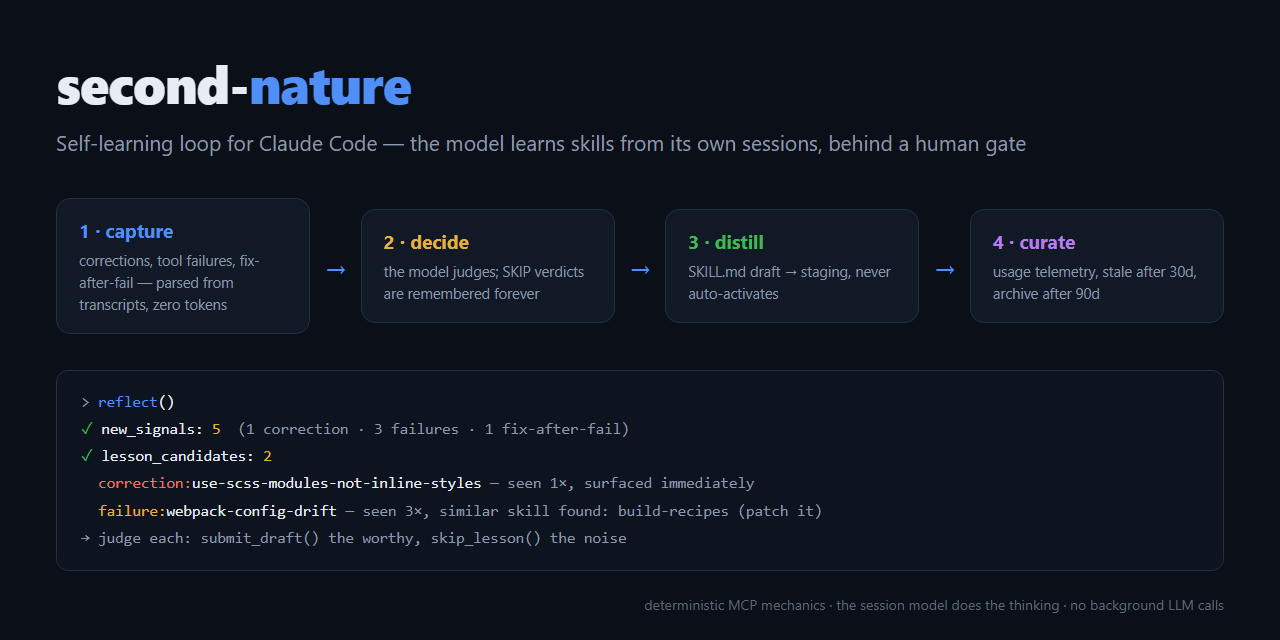
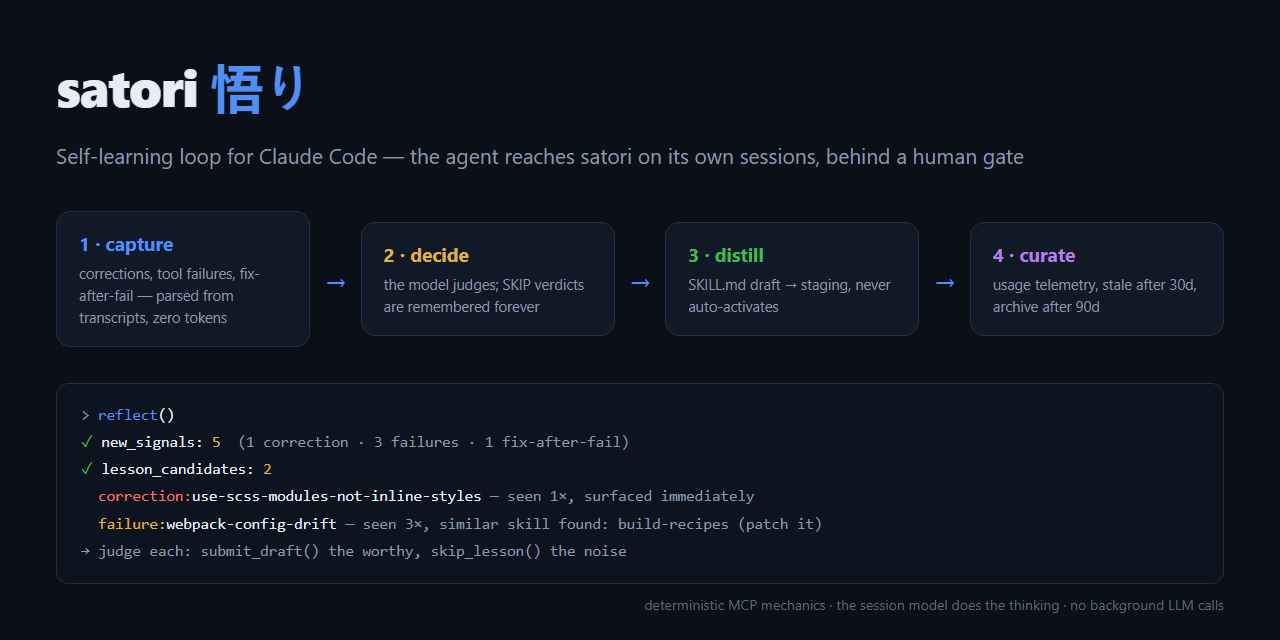
Rename: second-nature -> satori (悟り)

diff --git a/docs/hero.html b/docs/hero.html
@@ -18,8 +18,8 @@
   .p { color:#3fb950; } .k { color:#4f8ff7; } .c { color:#8b98a9; } .y { color:#e3b341; } .r { color:#f47067; }
   .foot { position:absolute; bottom:26px; right:56px; color:#5b6878; font-size:14px; }
 </style></head><body>
-  <div class="title">second-<span class="accent">nature</span></div>
-  <div class="tag">Self-learning loop for Claude Code — the model learns skills from its own sessions, behind a human gate</div>
+  <div class="title">satori <span class="accent">悟り</span></div>
+  <div class="tag">Self-learning loop for Claude Code — the agent reaches satori on its own sessions, behind a human gate</div>
   <div class="loop">
     <div class="stage s1"><b>1 · capture</b><span>corrections, tool failures, fix-after-fail — parsed from transcripts, zero tokens</span></div>
     <div class="arrow">→</div>

diff --git a/hooks/nudge.py b/hooks/nudge.py
@@ -1,5 +1,5 @@
 #!/usr/bin/env python3
-"""second-nature nudge hook. Events: prompt-submit | stop | session-end.
+"""satori nudge hook. Events: prompt-submit | stop | session-end.
 
 Молчит по умолчанию. Голос: коррекция юзера в текущем сообщении (мгновенно)
 или накопленная работа с последнего reflect (>=SN_NUDGE_MIN_CALLS tool calls).
@@ -15,7 +15,7 @@ import sys
 import time
 from pathlib import Path
 
-ROOT = Path.home() / ".claude" / "second-nature"
+ROOT = Path.home() / ".claude" / "satori"
 STATE_PATH = ROOT / "nudge_state.json"
 DB_PATH = ROOT / "state.db"
 
@@ -115,8 +115,8 @@ def main() -> None:
             emit({"hookSpecificOutput": {
                 "hookEventName": "UserPromptSubmit",
                 "additionalContext": (
-                    "second-nature: пользователь только что поправил тебя — после того как "
-                    "починишь по существу, вызови mcp__second-nature__reflect (коррекция = "
+                    "satori: пользователь только что поправил тебя — после того как "
+                    "починишь по существу, вызови mcp__satori__reflect (коррекция = "
                     "кандидат в урок с первого раза).")}})
             return
 
@@ -126,8 +126,8 @@ def main() -> None:
                 and now - st.get("nudge_ts", 0) > COOLDOWN_S)
     if not workload:
         return
-    msg = (f"second-nature: с последней рефлексии накопилось ~{calls} tool calls — "
-           f"вызови mcp__second-nature__reflect (или проигнорируй, напомню после "
+    msg = (f"satori: с последней рефлексии накопилось ~{calls} tool calls — "
+           f"вызови mcp__satori__reflect (или проигнорируй, напомню после "
            f"следующих {MIN_CALLS}).")
     st.update(nudge_ts=now, nudged_at_calls=calls)
     state_save(st)

diff --git a/server.py b/server.py
@@ -1,11 +1,11 @@
 #!/usr/bin/env python3
-"""second-nature — self-learning loop MCP for Claude Code (Windows-native).
+"""satori — self-learning loop MCP for Claude Code (Windows-native).
 
 4-stage loop: capture -> decide -> distill -> curate.
 The MCP does deterministic mechanics (parsing, counters, storage, validation);
 the calling model in-session does the thinking. No background `claude -p` calls.
 
-Storage: ~/.claude/second-nature/{state.db, staging/, backups/}
+Storage: ~/.claude/satori/{state.db, staging/, backups/}
 """
 
 import json
@@ -19,7 +19,7 @@ from pathlib import Path
 from fastmcp import FastMCP
 
 HOME = Path.home()
-ROOT = HOME / ".claude" / "second-nature"
+ROOT = HOME / ".claude" / "satori"
 STAGING = ROOT / "staging"
 BACKUPS = ROOT / "backups"
 DB_PATH = ROOT / "state.db"
@@ -63,7 +63,7 @@ INJECTION_RX = re.compile(
 KEY_STOP = re.compile(r"[^a-z0-9а-яё_./-]+", re.IGNORECASE)
 
 mcp = FastMCP(
-    "second-nature",
+    "satori",
     instructions=(
         "Self-learning loop (4 stages: capture->decide->distill->curate). "
         "CALL `reflect` SEVERAL TIMES PER SESSION: after finishing any substantial task "
@@ -321,7 +321,7 @@ def submit_draft(name: str, markdown: str, lesson_key: str = "", patches: str = 
         dest.parent.mkdir(parents=True, exist_ok=True)
         if dest.exists():
             shutil.copy2(dest, BACKUPS / f"{name}.{int(time.time())}.md")
-        stamp = (f"\n<!-- second-nature: staged {time.strftime('%Y-%m-%d')}"
+        stamp = (f"\n<!-- satori: staged {time.strftime('%Y-%m-%d')}"
                  + (f", patches '{patches}'" if patches else "")
                  + (f", lesson '{lesson_key}'" if lesson_key else "")
                  + (f", pinned '{pinned_project}'" if pinned_project else "") + " -->\n")

diff --git a/README.md b/README.md
@@ -1,20 +1,20 @@
 <div align="center">
 
-# second-nature
+# satori
 
 **A self-learning loop for Claude Code — the model learns skills from its own sessions, behind a human gate.**
 
-[![License](https://img.shields.io/github/license/timoncool/second-nature?style=flat-square)](LICENSE)
-[![Stars](https://img.shields.io/github/stars/timoncool/second-nature?style=flat-square)](https://github.com/timoncool/second-nature/stargazers)
-[![Last Commit](https://img.shields.io/github/last-commit/timoncool/second-nature?style=flat-square)](https://github.com/timoncool/second-nature/commits)
+[![License](https://img.shields.io/github/license/timoncool/satori?style=flat-square)](LICENSE)
+[![Stars](https://img.shields.io/github/stars/timoncool/satori?style=flat-square)](https://github.com/timoncool/satori/stargazers)
+[![Last Commit](https://img.shields.io/github/last-commit/timoncool/satori?style=flat-square)](https://github.com/timoncool/satori/commits)
 
 **[English](README.md)** · **[Русский](README_RU.md)**
 
-![second-nature](docs/screenshots/hero.png)
+![satori](docs/screenshots/hero.png)
 
 </div>
 
-second-nature is an MCP server + hooks that give Claude Code a closed self-learning loop: user corrections and tool failures become lesson candidates, lessons become skill drafts, drafts become active skills — but only through a gate. Windows-native, works in Claude Desktop, zero bash wrappers.
+satori is an MCP server + hooks that give Claude Code a closed self-learning loop: user corrections and tool failures become lesson candidates, lessons become skill drafts, drafts become active skills — but only through a gate. Windows-native, works in Claude Desktop, zero bash wrappers.
 
 Two principles you won't find together elsewhere: **the server does only deterministic mechanics** (parsing, counters, storage, validation) — the thinking is done by the calling model right in the session, no background LLM calls, no extra bills; and **nothing self-activates** — drafts sit in staging until explicitly approved.
 
@@ -36,15 +36,15 @@ Two principles you won't find together elsewhere: **the server does only determi
 
 1. **Clone & install the one dependency**
    ```bash
-   git clone https://github.com/timoncool/second-nature.git
-   cd second-nature && python -m venv .venv && .venv\Scripts\pip install fastmcp
+   git clone https://github.com/timoncool/satori.git
+   cd satori && python -m venv .venv && .venv\Scripts\pip install fastmcp
    ```
 
 2. **Register the MCP** — in your project's `.mcp.json` (or global config):
    ```jsonc
-   "second-nature": {
-     "command": "<path>\\second-nature\\.venv\\Scripts\\python.exe",
-     "args": ["<path>\\second-nature\\server.py"]
+   "satori": {
+     "command": "<path>\\satori\\.venv\\Scripts\\python.exe",
+     "args": ["<path>\\satori\\server.py"]
    }
    ```
 
@@ -131,11 +131,11 @@ I build open-source software and do AI research. Most of what I create is free a
 
 ## Star History
 
-<a href="https://www.star-history.com/?repos=timoncool%2Fsecond-nature&type=date&legend=top-left">
+<a href="https://www.star-history.com/?repos=timoncool%2Fsatori&type=date&legend=top-left">
  <picture>
-   <source media="(prefers-color-scheme: dark)" srcset="https://api.star-history.com/svg?repos=timoncool/second-nature&type=date&theme=dark&legend=top-left" />
-   <source media="(prefers-color-scheme: light)" srcset="https://api.star-history.com/svg?repos=timoncool/second-nature&type=date&legend=top-left" />
-   <img alt="Star History Chart" src="https://api.star-history.com/svg?repos=timoncool/second-nature&type=date&legend=top-left" />
+   <source media="(prefers-color-scheme: dark)" srcset="https://api.star-history.com/svg?repos=timoncool/satori&type=date&theme=dark&legend=top-left" />
+   <source media="(prefers-color-scheme: light)" srcset="https://api.star-history.com/svg?repos=timoncool/satori&type=date&legend=top-left" />
+   <img alt="Star History Chart" src="https://api.star-history.com/svg?repos=timoncool/satori&type=date&legend=top-left" />
  </picture>
 </a>
 